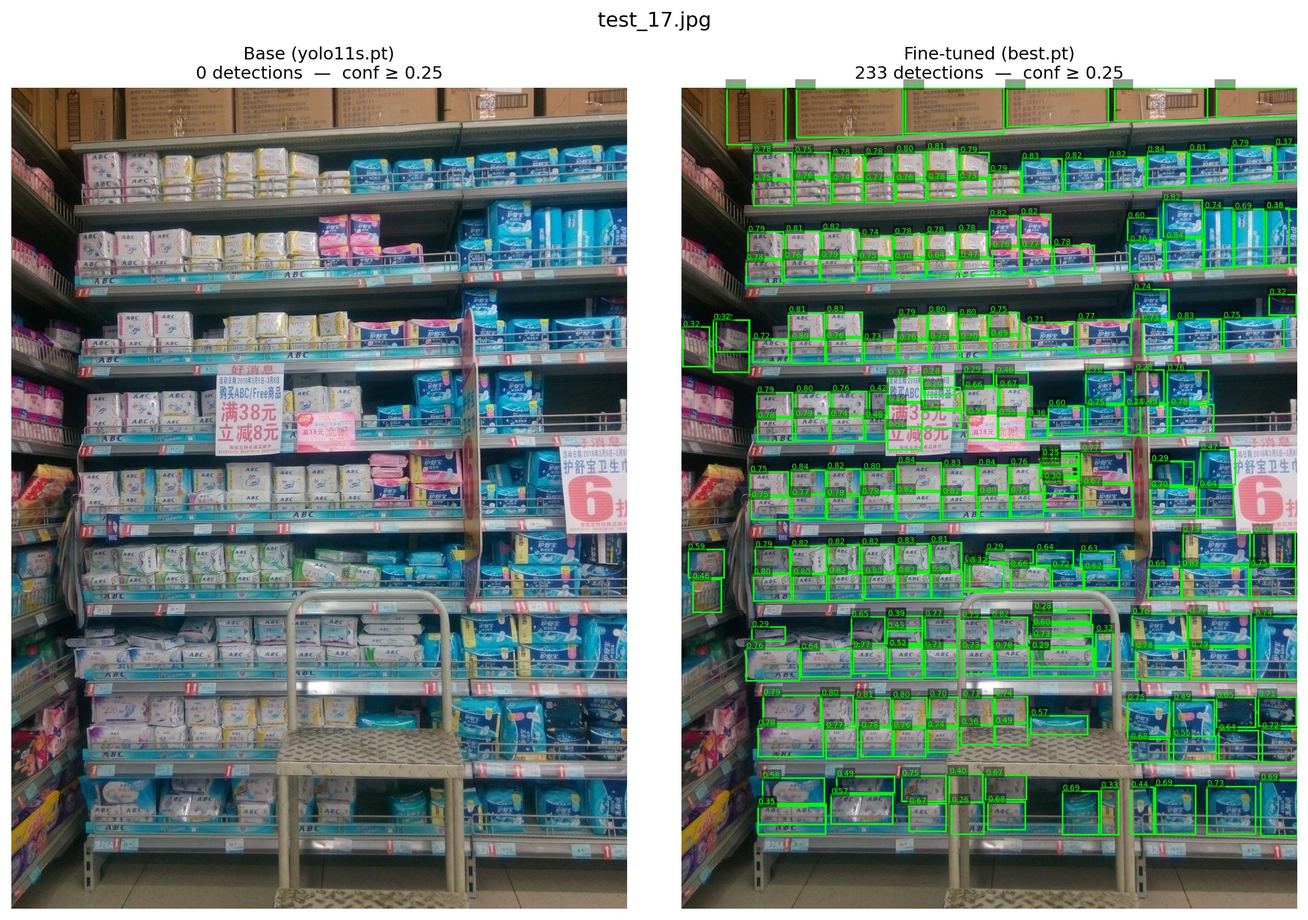
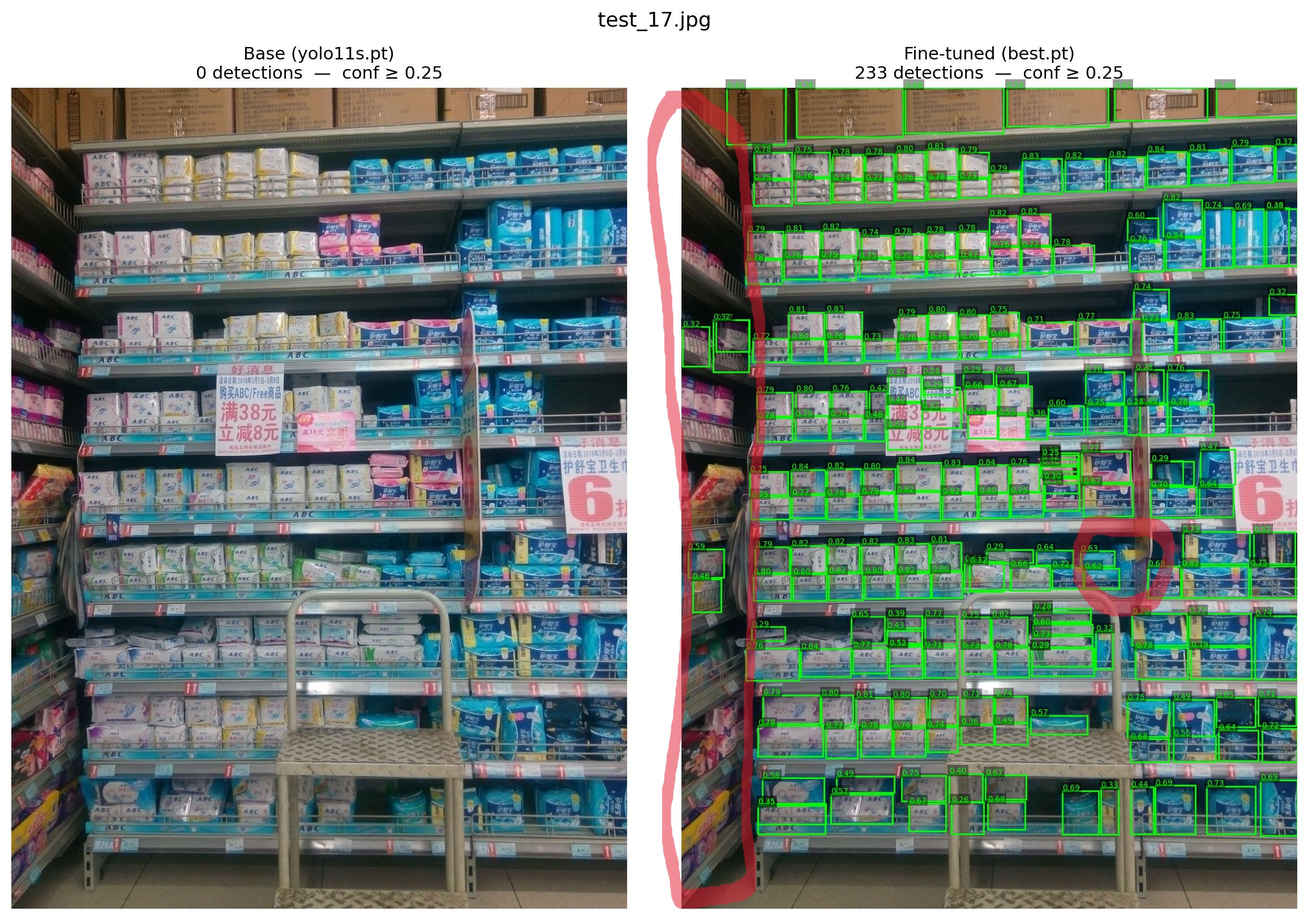
feedback toepassingen en scherpstelling

Changed region(s): [[0.4673, 0.0923, 0.592, 0.9846], [0.81, 0.5538, 0.9035, 0.6769]]

diff --git a/bachproef/conclusie.tex b/bachproef/conclusie.tex
@@ -16,20 +16,22 @@
 
 Deze bachelorproef onderzocht in welke mate bestaande AI-modellen inzetbaar zijn voor automatische productherkenning in supermarktbeelden. De focus lag hierbij op een reproduceerbare pipeline voor objectdetectie en similarity-based productidentificatie binnen retailomgevingen met hoge objectdichtheid.
 
-Uit de literatuurstudie bleek dat automatische productherkenning in supermarkten een uitdagend probleem blijft. Producten staan dicht bij elkaar, overlappen regelmatig en verschillen vaak slechts in kleine details zoals tekst, kleur of verpakkingsvarianten. Daarnaast zorgen variaties in camerahoek, belichting en beeldkwaliteit voor bijkomende moeilijkheden. Hoewel moderne computer vision-modellen sterke prestaties tonen in algemene detectietaken, blijft herkenning op SKU-niveau in realistische retailomgevingen moeilijk.
+Uit de literatuurstudie bleek dat automatische productherkenning in supermarkten een uitdagend probleem blijft. Producten staan vaak zeer dicht bij elkaar, kunnen elkaar gedeeltelijk afdekken in beelden en verschillen tussen productvarianten soms slechts in kleine details zoals tekst, kleur of verpakkingsvarianten. Daarnaast zorgen variaties in camerahoek, belichting en beeldkwaliteit voor bijkomende moeilijkheden. Hoewel moderne computer vision-modellen sterke prestaties tonen in algemene detectietaken, blijft herkenning op SKU-niveau in realistische retailomgevingen moeilijk.
 
-Om deze problematiek te onderzoeken werd een proof-of-concept ontwikkeld bestaande uit objectdetectie via YOLO11s, embeddings gebaseerd op CLIP, OCR en Florence-2, en similarity search via FAISS. De experimentele evaluatie toont aan dat fine-tuning een zeer grote impact heeft op detectieprestaties binnen supermarktbeelden. Het generieke YOLO11s-model presteerde onvoldoende op beelden met hoge objectdichtheid, maar na fine-tuning op SKU-110K steeg de detectiekwaliteit aanzienlijk. Voor de huidige toepassing presteert het model voldoende goed, waardoor objectdetectie niet langer de grootste bottleneck vormt binnen de pipeline.
+De experimentele evaluatie toont aan dat YOLO-modellen bruikbaar zijn voor productdetectie binnen supermarktbeelden, op voorwaarde dat ze voldoende gespecialiseerd worden via fine-tuning. Het generieke YOLO11s-model presteerde onvoldoende op supermarktbeelden met hoge objectdichtheid, maar na fine-tuning op SKU-110K verbeterden de detectieresultaten aanzienlijk. Voor de huidige toepassing bleek objectdetectie uiteindelijk niet de bottleneck binnen de pipeline.
 
-De grootste moeilijkheid bleek uiteindelijk de similarity-based productmatching. Uit de experimenten bleek dat de combinatie van CLIP en OCR de meest consistente resultaten opleverde, waarbij OCR een belangrijke bijdrage leverde aan correcte productmatching. Dit is logisch binnen retailomgevingen, aangezien veel producten visueel sterk op elkaar lijken terwijl tekstuele kenmerken vaak het grootste onderscheid vormen tussen varianten. Florence-2 leverde daarentegen weinig meerwaarde op binnen deze pipeline en werd uiteindelijk niet opgenomen in de finale configuratie.
+Daarnaast toont het onderzoek aan dat publieke retaildatasets zoals SKU-110K en OpenFoodFacts bruikbaar zijn voor het ontwikkelen en evalueren van productherkenningssystemen. Deze datasets bevatten voldoende variatie en schaal om detectie- en matchingmodellen te trainen binnen retailcontexten. Tegelijkertijd toont het onderzoek aan dat de kwaliteit en consistentie van datasetafbeeldingen een grote invloed hebben op de uiteindelijke prestaties. Variaties in beeldkwaliteit, perspectief, achtergrond en productpresentatie zorgen voor minder consistente embeddings en bemoeilijken betrouwbare productmatching.
 
-Hoewel de top-5 resultaten vaak relevante producten bevatten, bleef de stabiliteit van top-1 voorspellingen beperkt. Producten met sterk gelijkende verpakkingen bleken moeilijk betrouwbaar van elkaar te onderscheiden. De vooropgestelde prestatiedrempels voor fine-grained productidentificatie werden dan ook niet gehaald, wat aantoont dat SKU-level herkenning in realistische retailomgevingen nog steeds een uitdagend probleem blijft.
+De resultaten tonen verder aan dat de combinatie van CLIP- en OCR-embeddings de meest consistente productmatches opleverde. OCR bleek hierbij bijzonder belangrijk, aangezien tekstuele kenmerken vaak het grootste onderscheid vormen tussen sterk gelijkende productvarianten. Florence-2 leverde binnen deze pipeline weinig meerwaarde op en werd uiteindelijk niet opgenomen in de finale configuratie.
 
-Daarnaast tonen de resultaten aan dat de kwaliteit van de crops een zeer grote invloed heeft op de matchingprestaties. Onnauwkeurige bounding boxes of achtergrondinformatie zorgen voor minder consistente embeddings en slechtere similarity matching. Tijdens het onderzoek werd geprobeerd dit probleem te verminderen door de achtergrond van crops en databaseafbeeldingen weg te knippen. De geteste methodes hiervoor bleken echter zeer inconsistent en leverden onvoldoende stabiele resultaten op. Toch toont dit een belangrijke richting voor toekomstig onderzoek, aangezien consistente achtergrondverwijdering potentieel een grote impact kan hebben op de kwaliteit van productmatching.
+Hoewel de top-5 resultaten vaak relevante producten bevatten, bleef betrouwbare top-1 productidentificatie moeilijk. De vooropgestelde prestatiedrempels voor fine-grained productidentificatie werden niet gehaald, wat aantoont dat SKU-level herkenning in realistische retailomgevingen nog steeds een uitdagend probleem blijft. De grootste moeilijkheid ligt daarbij niet langer bij objectdetectie, maar voornamelijk bij consistente similarity-based productmatching tussen visueel sterk gelijkende producten.
 
-De resultaten suggereren ook dat verdere fine-tuning van CLIP binnen deze context beperkte meerwaarde biedt. Dit is gedeeltelijk te verklaren doordat de moeilijkheid van het probleem niet uitsluitend ligt bij feature-extractie, maar vooral bij de extreem kleine visuele verschillen tussen producten. Wanneer meerdere producten bijna identieke verpakkingen hebben, blijft correcte matching moeilijk, zelfs met sterkere embeddings.
+Daarnaast bleek dat de kwaliteit van crops een directe impact heeft op de matchingprestaties. Tijdens het onderzoek werd geprobeerd de achtergrond van crops en databaseafbeeldingen automatisch te verwijderen met methodes zoals rembg en BiRefNet. Deze technieken leverden echter zeer inconsistente resultaten op waarbij delen van producten vaak verloren gingen, waardoor de crops onbruikbaar werden voor verdere verwerking. Toch tonen deze experimenten aan dat consistente achtergrondverwijdering potentieel een belangrijke verbetering kan betekenen voor similarity-based productherkenning.
 
-Een belangrijke bijdrage van deze bachelorproef is het aantonen dat de algemene pipeline-structuur technisch bruikbaar is voor automatische retailanalyse. De combinatie van objectdetectie, multimodale embeddings en similarity search vormt een werkbare basis voor automatische assortimentsinventarisatie. De resultaten tonen aan dat het probleem niet volledig ligt bij detectie, maar voornamelijk bij betrouwbare productmatching op SKU-niveau. Indien toekomstige systemen consistenter kunnen matchen, kan deze pipeline gebruikt worden voor praktische toepassingen binnen retailmonitoring, voorraadbeheer en onderzoek naar gezonde of duurzame voedingsomgevingen.
+Verder suggereren de resultaten dat bijkomende fine-tuning van CLIP binnen deze context beperkte meerwaarde biedt. Dit is logisch aangezien de moeilijkheid van het probleem niet uitsluitend ligt bij feature-extractie, maar vooral bij de extreem kleine visuele verschillen tussen producten. Wanneer meerdere producten bijna identieke verpakkingen hebben, blijft correcte matching moeilijk, zelfs met sterkere embeddings.
 
-Tijdens het onderzoek moest bovendien rekening gehouden worden met hardwarebeperkingen, waardoor niet altijd gebruik gemaakt kon worden van grotere of performantere modellen. Hierdoor werd gekozen voor relatief lichte modellen die haalbaar bleven binnen de beschikbare hardware. Ondanks deze beperkingen tonen de resultaten aan dat reeds bruikbare prestaties mogelijk zijn binnen een beperkte onderzoeksomgeving.
+Een belangrijke bijdrage van deze bachelorproef is het aantonen dat de ontwikkelde pipeline-structuur technisch bruikbaar is voor automatische retailanalyse. De combinatie van objectdetectie, multimodale embeddings en similarity search vormt een werkbare basis voor automatische assortimentsinventarisatie. De resultaten tonen aan dat bestaande AI-modellen reeds bruikbare detectieprestaties kunnen behalen binnen supermarktbeelden, maar dat betrouwbare productmatching op SKU-niveau momenteel de grootste uitdaging blijft.
 
-Samenvattend toont deze bachelorproef aan dat automatische productdetectie in supermarktbeelden reeds haalbaar is met bestaande AI-modellen, maar dat betrouwbare SKU-level productherkenning nog belangrijke uitdagingen bevat. Vooral similarity-based matching blijft de grootste bottleneck binnen de huidige pipeline. Toch vormen de opgedane inzichten een waardevolle basis voor verder onderzoek naar automatische retailanalyse en multimodale productherkenning.
+Tijdens het onderzoek moest bovendien rekening gehouden worden met hardwarebeperkingen, waardoor niet altijd gebruik gemaakt kon worden van grotere of performantere modellen. Ondanks deze beperkingen tonen de resultaten aan dat reeds bruikbare prestaties mogelijk zijn binnen een beperkte onderzoeksomgeving.
+
+Samenvattend toont deze bachelorproef aan dat automatische productdetectie in supermarktbeelden reeds haalbaar is met bestaande AI-modellen, maar dat betrouwbare SKU-level productherkenning nog belangrijke uitdagingen bevat. Vooral similarity-based matching tussen sterk gelijkende producten blijft de grootste bottleneck binnen de huidige pipeline. De opgedane inzichten tonen echter duidelijk waar de huidige beperkingen liggen en vormen een waardevolle basis voor verder onderzoek naar automatische retailanalyse en multimodale productherkenning.

diff --git a/bachproef/poc.tex b/bachproef/poc.tex
@@ -16,12 +16,12 @@ De algemene flow van het systeem is als volgt:
         arrow/.style={thick,->,>=stealth}
     }
 
-    \node (img) [box] {Schapafbeelding};
-    \node (yolo) [box, below of=img] {Objectdetectie};
-    \node (crops) [box, below of=yolo] {Productextractie};
-    \node (emb) [box, below of=crops] {Vertaling naar vectoren};
-    \node (faiss) [box, below of=emb] {Gelijk product zoeken};
-    \node (top) [box, below of=faiss] {Meest gelijkaardige producten};
+    \node (img) [box] {Schapafbeelding (input)};
+    \node (yolo) [box, below of=img] {Objectdetectie (YOLO11s)};
+    \node (crops) [box, below of=yolo] {Productextractie (crops)};
+    \node (emb) [box, below of=crops] {Vertaling naar vectoren (embeddings)};
+    \node (faiss) [box, below of=emb] {Gelijk product zoeken (FAISS)};
+    \node (top) [box, below of=faiss] {Meest gelijkaardige producten tonen (Top-5)};
 
     \draw [arrow] (img) -- (yolo);
     \draw [arrow] (yolo) -- (crops);
@@ -97,7 +97,7 @@ Voor elke detectie produceert het model:
     \item Een confidence score die aangeeft hoe zeker het model is
 \end{itemize}
 
-Op basis van deze bounding boxes worden crops gegenereerd. Elke crop bevat een uitgesneden deel van de originele afbeelding en stelt idealiter één product voor.
+Op basis van deze bounding boxes worden crops gegenereerd. Elke crop bevat een uitgesneden deel van de originele afbeelding en stelt idealiter één product voor. Dit stelt de productextractiestap voor.
 
 Het aantal crops hangt af van het aantal gedetecteerde objecten. In een typische afbeelding kan dit variëren van enkele tientallen tot meer dan honderd producten.
 
@@ -126,7 +126,7 @@ Hoewel YOLO11s efficiënt is, zijn er beperkingen.
 
 Bounding boxes zijn niet altijd nauwkeurig. In sommige gevallen bevatten ze te veel achtergrond, wat de kwaliteit van de crop verlaagt. 
 
-Tijdens het onderzoek werd geprobeerd dit probleem te verminderen door de achtergrond van crops automatisch te verwijderen met methodes zoals rembg \cite{gatis_rembg_2020}, rembg new\_session en BiRefNet \cite{peng2024birefnet}. 
+Tijdens het onderzoek werd geprobeerd dit probleem te verminderen door de achtergrond van crops automatisch te verwijderen met methodes zoals rembg \cite{gatis_rembg_2020}, rembg new\_session en BiRefNet \cite{peng2024birefnet}.
 
 In de praktijk leverden deze methodes echter zeer inconsistente resultaten op. Vaak ontbraken grote delen van het product of werd meer dan de helft van het product weggeknipt, waardoor de gegenereerde crops onbruikbaar werden voor verdere verwerking. Hierdoor konden deze technieken niet betrouwbaar geïntegreerd worden binnen de pipeline.
 
@@ -163,6 +163,16 @@ Minimale uitschieter & +100,00\% \\
 De resultaten in Tabel~\ref{tab:evaluatie_yolo} tonen aan dat het fine-tunen van YOLO11s op de SKU-110K dataset een zeer grote impact heeft op het aantal gedetecteerde producten. 
 
 Waar het originele basismodel slechts 552 detecties uitvoerde over de volledige testset, detecteerde het gefinetunede model 14.859 objecten. Dit komt overeen met een dataset-brede stijging van ongeveer 2.592\%.
+
+\begin{figure}[H]
+    \centering
+    \begin{tikzpicture}[node distance=0.5cm] 
+        \node[inner sep=0pt] (img0) at (0,0)
+            {\includegraphics[width=0.9\textwidth]{C:/Users/krist/OneDrive/Documents/HoGent IT/BachproefHoGent/latex-hogent-bachproef/bachproef/test_16_comparison.jpg}};
+    \end{tikzpicture}
+    \caption{Voorbeeld van afbeelding waar het aantal gedetecteerde producten aanzienlijk is verbeterd (v.l.n.r. test\_16\_comparison).}
+    \label{fig:detectie_verbetering}
+\end{figure}
 
 De sterke verbetering toont aan dat een generiek detectiemodel onvoldoende presteert voor dense retail-omgevingen, waarin veel kleine en sterk overlappende producten aanwezig zijn. Door fine-tuning op SKU-110K leert het model beter omgaan met deze specifieke context.
 

diff --git a/bachproef/experieval.tex b/bachproef/experieval.tex
@@ -90,7 +90,7 @@ In veel gevallen bevat deze top-5 lijst correcte producten, maar de volgorde is 
             {\includegraphics[width=0.9\textwidth]{C:/Users/krist/Downloads/crop146_top5.png}};
 
     \end{tikzpicture}
-    \caption{De top 5 van 2 gecropte cola-flessen wordt bekeken. Boven goede voorspellingen maar onder heel verschillende. (v.l.n.r. crop4\_top5, crop24\_top5).}
+    \caption{De top 5 van 2 gecropte cola-flessen wordt bekeken. Boven goede voorspellingen maar onder verschillen ze meer en staat de correcte match niet in de lijst. (v.l.n.r. crop4\_top5, crop24\_top5).}
     \label{fig:top5_problemen}
 \end{figure}
 
@@ -129,7 +129,7 @@ Wanneer er een fout zit in deze metadata, bijvoorbeeld een verkeerde code of key
         \node[inner sep=0pt, right=of img0] (img1)
             {\includegraphics[width=0.3\textwidth]{C:/Users/krist/Downloads/foute_foto_vb2.jpg}};
 
-        \node[inner sep=0pt, right=3cm of img1] (img2)
+        \node[inner sep=0pt, right=2.5cm of img1] (img2)
             {\includegraphics[width=0.3\textwidth]{C:/Users/krist/Downloads/donker_wazig_vb.jpg}};
         
     \end{tikzpicture}
@@ -152,10 +152,10 @@ Producten die verder naar achter staan of gedeeltelijk verborgen zijn, werden va
     \centering
     \begin{tikzpicture}[node distance=0.5cm] 
         \node[inner sep=0pt] (img0) at (0,0)
-            {\includegraphics[width=0.5\textwidth]{C:/Users/krist/Downloads/test_17_comparison_aaanduiding.jpg}};
+            {\includegraphics[width=0.5\textwidth]{C:/Users/krist/OneDrive/Documents/HoGent IT/BachproefHoGent/latex-hogent-bachproef/bachproef/test_17_comparison.jpg}};
 
         \node[inner sep=0pt, right=of img0] (img1)
-            {\includegraphics[width=0.475\textwidth]{C:/Users/krist/Downloads/test_18_comparison_aanduiding.jpg}};
+            {\includegraphics[width=0.475\textwidth]{C:/Users/krist/OneDrive/Documents/HoGent IT/BachproefHoGent/latex-hogent-bachproef/bachproef/test_18_comparison.jpg}};
         
     \end{tikzpicture}
     \caption{Deze voorbeelden tonen het verschil in detectieprestaties na finetuning op de SKU-110K dataset (v.l.n.r. test\_17\_comparison, test\_18\_comparison).}

diff --git a/bachproef/inleiding.tex b/bachproef/inleiding.tex
@@ -45,7 +45,6 @@ Om deze onderzoeksvraag te beantwoorden, wordt het probleem verder opgesplitst i
 \begin{itemize}
     \item Welke detectiemodellen presteren het best bij het onderscheiden van (sterk gelijkende) producten?
     \item Welke bestaande open datasets of online databronnen bevatten geschikt beeldmateriaal van supermarktproducten voor training en evaluatie van productherkenningsmodellen?
-    \item Welke factoren veroorzaken instabiliteit in top-k en top-5 similarity matching bij sterk gelijkende producten?
     \item Welke combinatie van visuele en tekstuele embeddings levert de meest consistente productmatches op?
     \item Welke impact heeft de kwaliteit en consistentie van de dataset op de prestaties van similarity-based productherkenning?
 \end{itemize}
